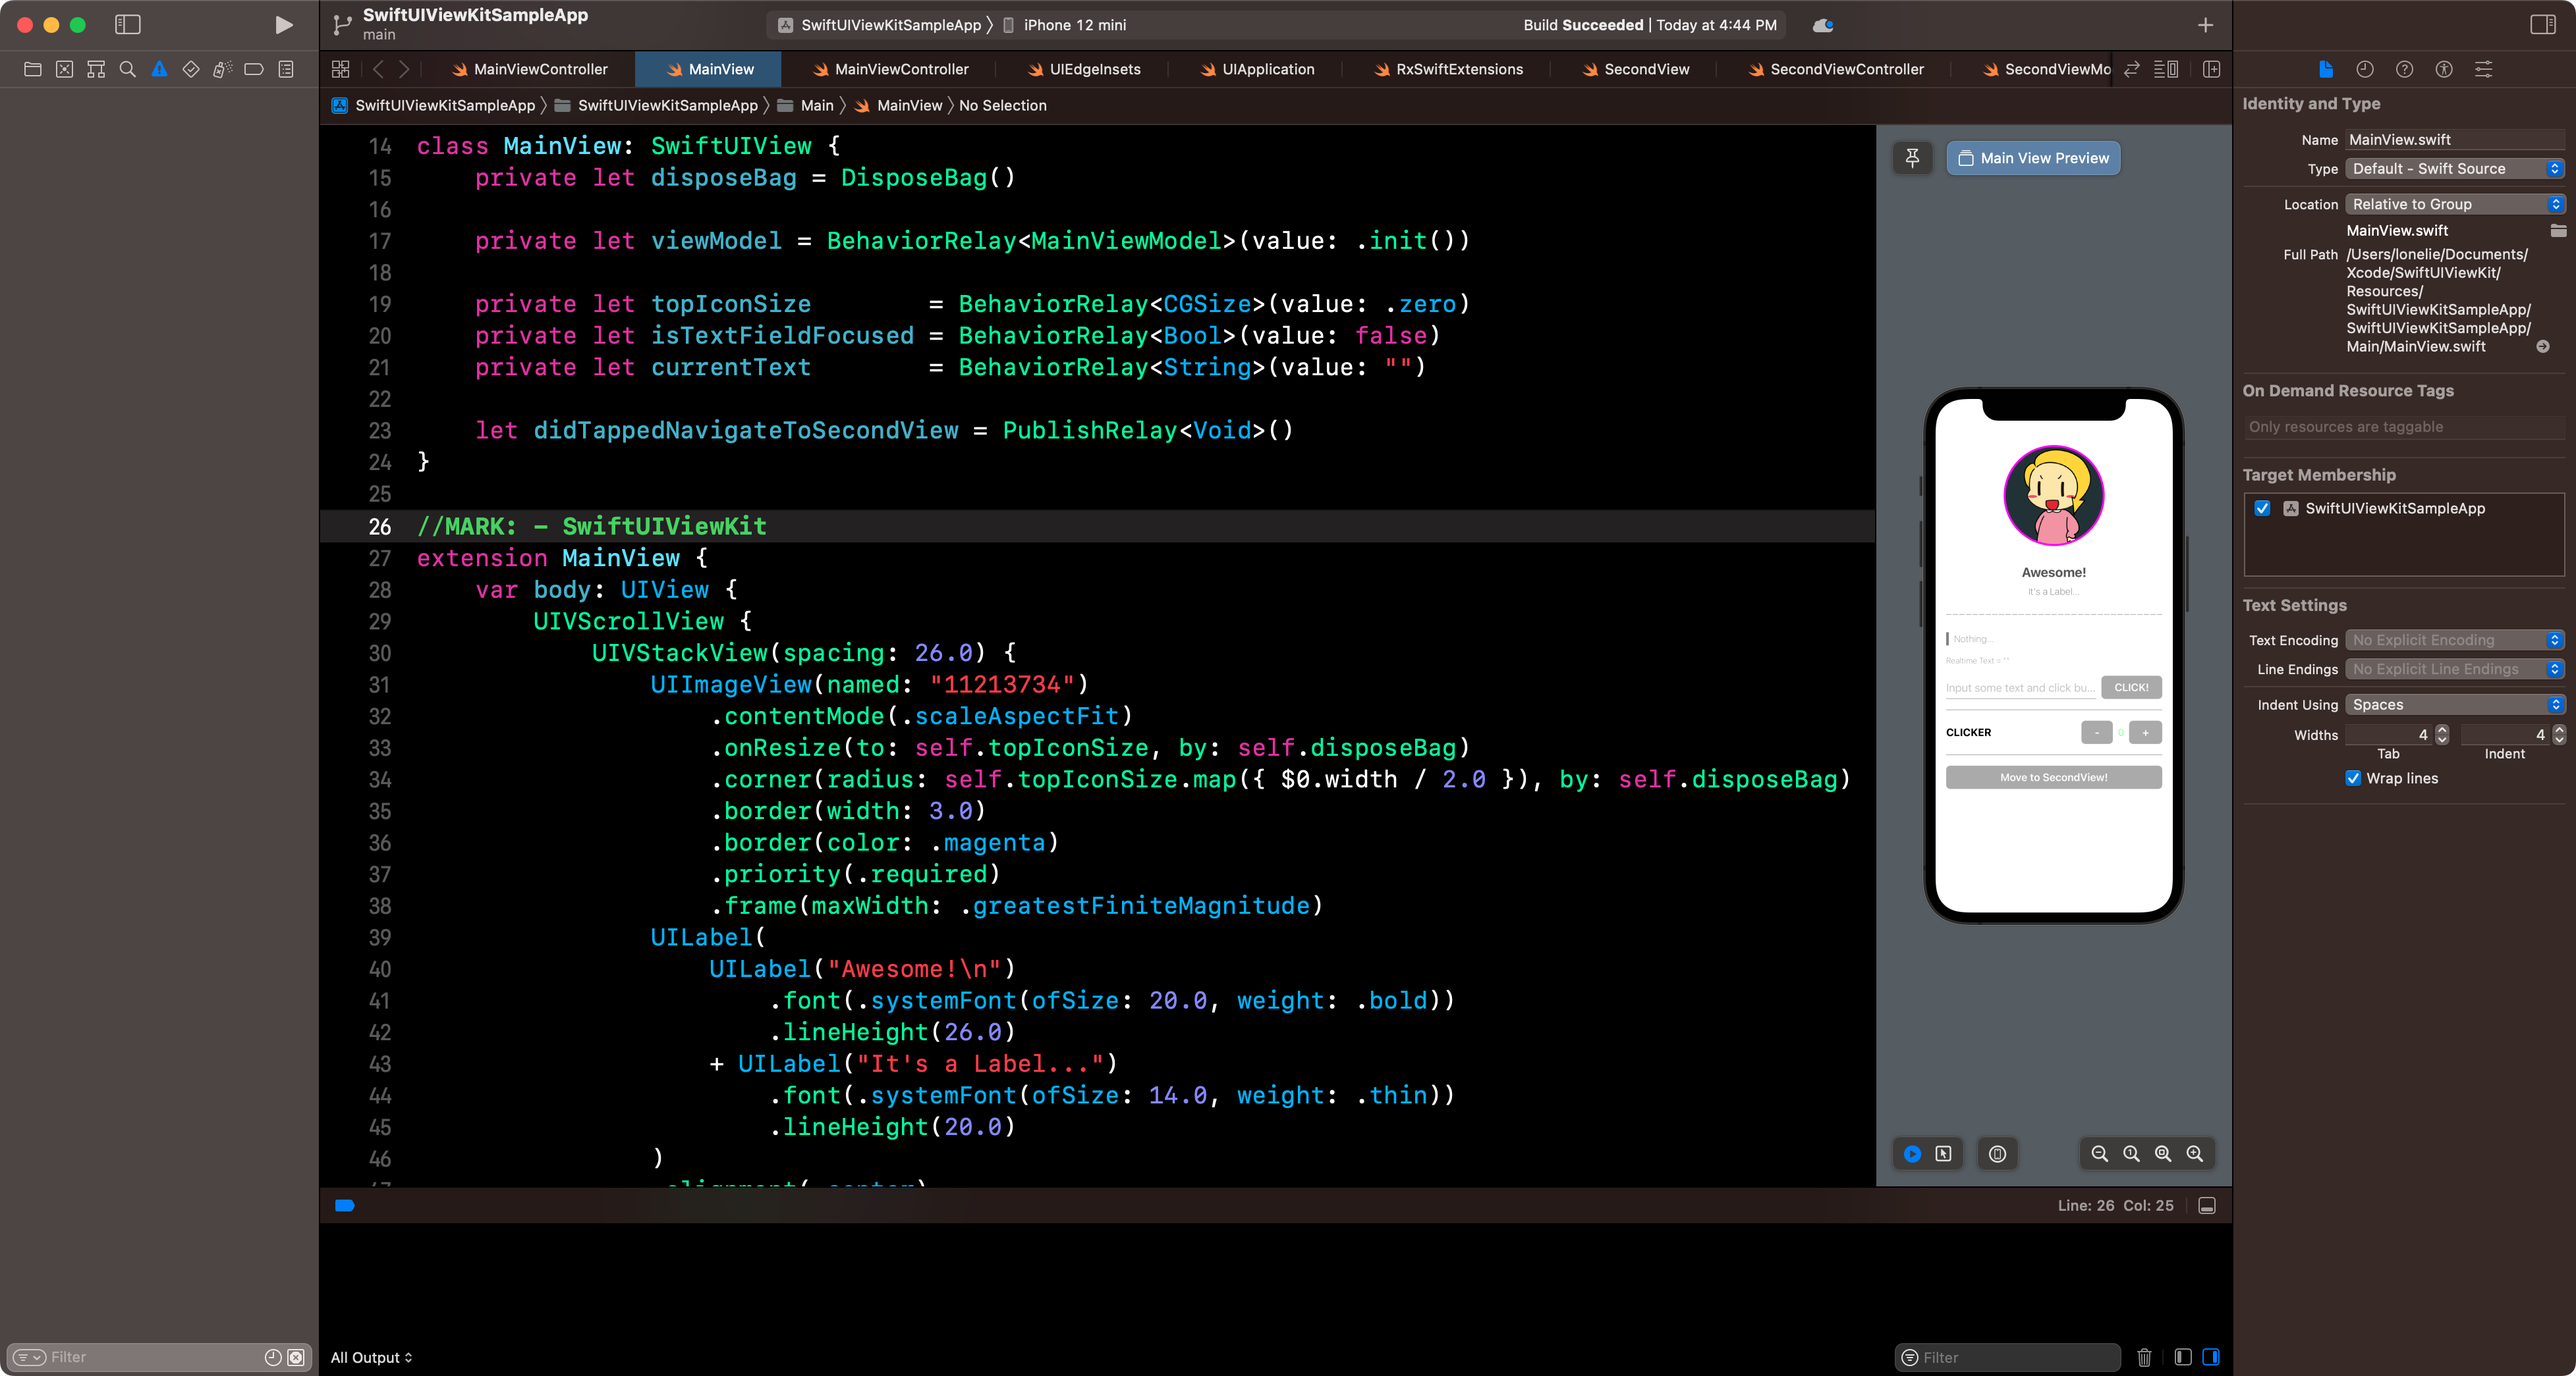
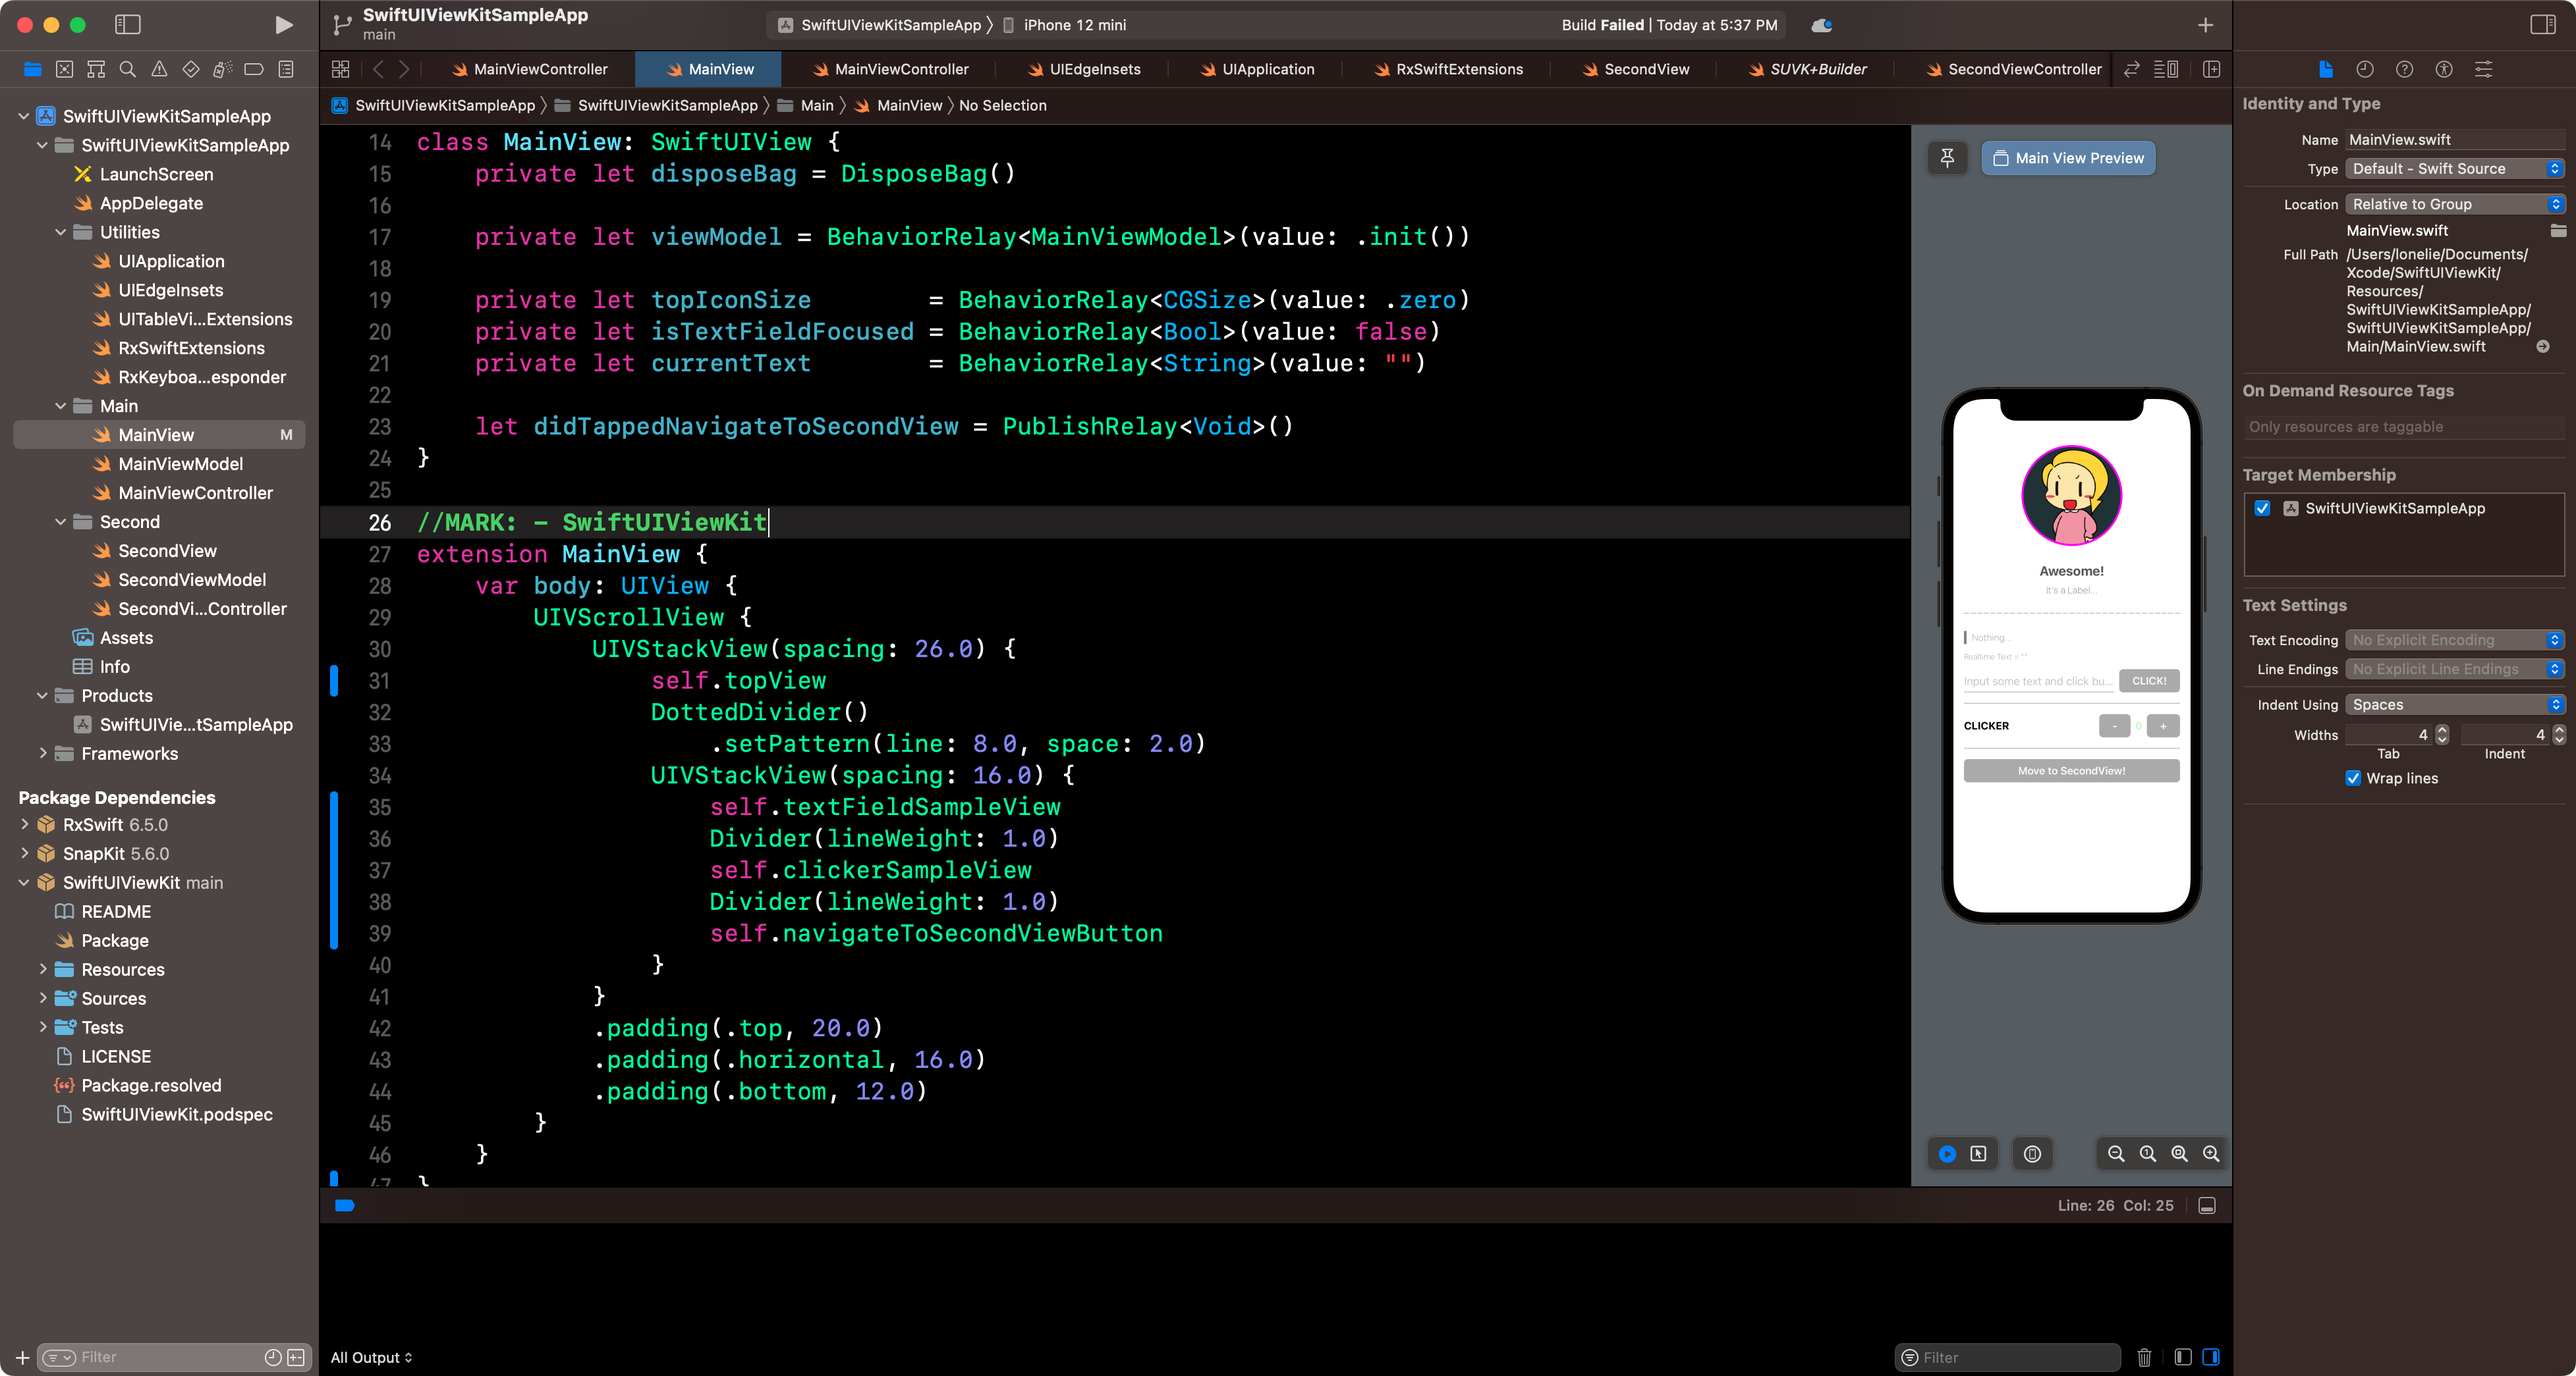
Update SampleApp and preview.

diff --git a/Resources/SwiftUIViewKitSampleApp/SwiftUIViewKitSampleApp/Main/MainView.swift b/Resources/SwiftUIViewKitSampleApp/SwiftUIViewKitSampleApp/Main/MainView.swift
@@ -28,121 +28,146 @@ extension MainView {
     var body: UIView {
         UIVScrollView {
             UIVStackView(spacing: 26.0) {
-                UIImageView(named: "11213734")
-                    .contentMode(.scaleAspectFit)
-                    .onResize(to: self.topIconSize, by: self.disposeBag)
-                    .corner(radius: self.topIconSize.map({ $0.width / 2.0 }), by: self.disposeBag)
-                    .border(width: 3.0)
-                    .border(color: .magenta)
-                    .priority(.required)
-                    .frame(maxWidth: .greatestFiniteMagnitude)
-                UILabel(
-                    UILabel("Awesome!\n")
-                        .font(.systemFont(ofSize: 20.0, weight: .bold))
-                        .lineHeight(26.0)
-                    + UILabel("It's a Label...")
-                        .font(.systemFont(ofSize: 14.0, weight: .thin))
-                        .lineHeight(20.0)
-                )
-                .alignment(.center)
-                .lineLimit(0)
-                .color(.darkGray)
+                self.topView
                 DottedDivider()
                     .setPattern(line: 8.0, space: 2.0)
                 UIVStackView(spacing: 16.0) {
-                    UIHStackView(spacing: 8.0) {
-                        UIView()
-                            .background(.gray)
-                            .frame(width: 4.0)
-                        UILabel(
-                            self.viewModel
-                                .map { $0.userText }
-                                .map { $0.isEmpty ? "Nothing..." : $0 },
-                            by: self.disposeBag
-                        )
-                        .font(.systemFont(ofSize: 14.0, weight: .thin))
-                        .lineLimit(0)
-                        .lineHeight(20.0)
-                        .color(self.viewModel.map({ $0.userText.isEmpty ? .gray : .magenta }), by: disposeBag)
-                    }
-                    UILabel(self.currentText.map({ String(format: "Realtime Text = \"%@\"", $0) }), by: self.disposeBag)
-                        .font(.systemFont(ofSize: 12.0, weight: .thin))
-                        .lineLimit(0)
-                        .lineHeight(14.0)
-                        .lineBreak(.byCharWrapping)
-                        .color(.gray)
-                    UIHStackView(spacing: 8.0) {
-                        UITextField()
-                            .bind(to: self.currentText, by: self.disposeBag)
-                            .configuration {(tf: UITextField) in
-                                tf.placeholder = "Input some text and click button!"
-                            }
-                            .background(
-                                Divider()
-                                    .color(self.isTextFieldFocused.map({ $0 ? .cyan : .lightGray }),
-                                           by: self.disposeBag)
-                                    .frame(maxHeight: .greatestFiniteMagnitude,
-                                           verticalAlignment: .bottom)
-                            )
-                            .onTapGesture(by: self.disposeBag) {gesture in
-                                gesture.view?.becomeFirstResponder()
-                            }
-                            .addTarget(
-                                by: self.disposeBag,
-                                for: .editingDidBegin,
-                                action: {[unowned self] in
-                                    self.isTextFieldFocused.accept(true)
-                                }
-                            )
-                            .addTarget(
-                                by: self.disposeBag,
-                                for: [.editingDidEnd, .editingDidEndOnExit],
-                                action: {[unowned self] in
-                                    self.isTextFieldFocused.accept(false)
-                                }
-                            )
-                            .priority(.defaultHigh)
-                        self.button(text: "CLICK!")
-                            .onTapGesture(by: self.disposeBag) {[unowned self] in
-                                self.endEditing(false)
-                                self.viewModel.unwrappedValue.userText = self.currentText.value
-                            }
-                    }
+                    self.textFieldSampleView
                     Divider(lineWeight: 1.0)
-                    UIHStackView(alignment: .center, spacing: 8.0) {
-                        UILabel("CLICKER")
-                            .font(.systemFont(ofSize: 16.0, weight: .bold))
-                        UIHStackView(alignment: .center, spacing: 8.0) {
-                            self.button(text: "-")
-                                .onTapGesture(by: self.disposeBag) {[unowned self] in
-                                    self.viewModel.unwrappedValue.clickedCount -= 1
-                                }
-                            UILabel(self.viewModel
-                                        .map { String(format: "%lld", $0.clickedCount) }
-                                        .distinctUntilChanged(),
-                                    by: self.disposeBag)
-                                .font(.systemFont(ofSize: 14.0, weight: .thin))
-                                .alignment(.center)
-                                .color(self.viewModel
-                                           .map { $0.clickedCount < 0 ? .red : .green }
-                                           .distinctUntilChanged(),
-                                       by: self.disposeBag)
-                            self.button(text: "+")
-                                .onTapGesture(by: self.disposeBag) {[unowned self] in
-                                    self.viewModel.unwrappedValue.clickedCount += 1
-                                }
-                        }
-                        .priority(.required)
-                    }
+                    self.clickerSampleView
                     Divider(lineWeight: 1.0)
-                    self.button(text: "Move to SecondView!")
-                        .onTapGesture(by: self.disposeBag, publish: self.didTappedNavigateToSecondView)
+                    self.navigateToSecondViewButton
                 }
             }
             .padding(.top, 20.0)
             .padding(.horizontal, 16.0)
             .padding(.bottom, 12.0)
         }
+    }
+}
+
+//MARK: - Subviews
+extension MainView {
+    private var topView: UIView {
+        UIVStackView(spacing: 24.0) {
+            UIImageView(named: "11213734")
+                .contentMode(.scaleAspectFit)
+                .onResize(to: self.topIconSize, by: self.disposeBag)
+                .corner(radius: self.topIconSize.map({ $0.width / 2.0 }), by: self.disposeBag)
+                .border(width: 3.0)
+                .border(color: .magenta)
+                .priority(.required)
+                .frame(maxWidth: .greatestFiniteMagnitude)
+            UILabel(
+                UILabel("Awesome!\n")
+                    .font(.systemFont(ofSize: 20.0, weight: .bold))
+                    .lineHeight(26.0)
+                + UILabel("It's a Label...")
+                    .font(.systemFont(ofSize: 14.0, weight: .thin))
+                    .lineHeight(20.0)
+            )
+            .alignment(.center)
+            .lineLimit(0)
+            .color(.darkGray)
+        }
+    }
+    
+    private var textFieldSampleView: UIView {
+        UIVStackView(spacing: 12.0) {
+            UIHStackView(spacing: 8.0) {
+                UIView()
+                    .background(.gray)
+                    .frame(width: 4.0)
+                UILabel(
+                    self.viewModel
+                        .map { $0.userText }
+                        .map { $0.isEmpty ? "Nothing..." : $0 },
+                    by: self.disposeBag
+                )
+                .font(.systemFont(ofSize: 14.0, weight: .thin))
+                .lineLimit(0)
+                .lineHeight(20.0)
+                .color(self.viewModel.map({ $0.userText.isEmpty ? .gray : .magenta }), by: disposeBag)
+            }
+            UILabel(self.currentText.map({ String(format: "Realtime Text = \"%@\"", $0) }), by: self.disposeBag)
+                .font(.systemFont(ofSize: 12.0, weight: .thin))
+                .lineLimit(0)
+                .lineHeight(14.0)
+                .lineBreak(.byCharWrapping)
+                .color(.gray)
+            UIHStackView(spacing: 8.0) {
+                UITextField()
+                    .bind(to: self.currentText, by: self.disposeBag)
+                    .configuration {(tf: UITextField) in
+                        tf.placeholder = "Input some text and click button!"
+                    }
+                    .background(
+                        Divider()
+                            .color(self.isTextFieldFocused.map({ $0 ? .cyan : .lightGray }),
+                                   by: self.disposeBag)
+                            .frame(maxHeight: .greatestFiniteMagnitude,
+                                   verticalAlignment: .bottom)
+                    )
+                    .onTapGesture(by: self.disposeBag) {gesture in
+                        gesture.view?.becomeFirstResponder()
+                    }
+                    .addTarget(
+                        by: self.disposeBag,
+                        for: .editingDidBegin,
+                        action: {[unowned self] in
+                            self.isTextFieldFocused.accept(true)
+                        }
+                    )
+                    .addTarget(
+                        by: self.disposeBag,
+                        for: [.editingDidEnd, .editingDidEndOnExit],
+                        action: {[unowned self] in
+                            self.isTextFieldFocused.accept(false)
+                        }
+                    )
+                    .priority(.defaultHigh)
+                self.button(text: "CLICK!")
+                    .onTapGesture(by: self.disposeBag) {[unowned self] in
+                        self.endEditing(false)
+                        self.viewModel.unwrappedValue.userText = self.currentText.value
+                    }
+            }
+        }
+    }
+    
+    private var clickerSampleView: UIView {
+        UIVStackView(spacing: 12.0) {
+            UIHStackView(alignment: .center, spacing: 8.0) {
+                UILabel("CLICKER")
+                    .font(.systemFont(ofSize: 16.0, weight: .bold))
+                UIHStackView(alignment: .center, spacing: 8.0) {
+                    self.button(text: "-")
+                        .onTapGesture(by: self.disposeBag) {[unowned self] in
+                            self.viewModel.unwrappedValue.clickedCount -= 1
+                        }
+                    UILabel(self.viewModel
+                                .map { String(format: "%lld", $0.clickedCount) }
+                                .distinctUntilChanged(),
+                            by: self.disposeBag)
+                        .font(.systemFont(ofSize: 14.0, weight: .thin))
+                        .alignment(.center)
+                        .color(self.viewModel
+                                   .map { $0.clickedCount < 0 ? .red : .green }
+                                   .distinctUntilChanged(),
+                               by: self.disposeBag)
+                    self.button(text: "+")
+                        .onTapGesture(by: self.disposeBag) {[unowned self] in
+                            self.viewModel.unwrappedValue.clickedCount += 1
+                        }
+                }
+                .priority(.required)
+            }
+        }
+    }
+    
+    private var navigateToSecondViewButton: UIView {
+        self.button(text: "Move to SecondView!")
+            .onTapGesture(by: self.disposeBag, publish: self.didTappedNavigateToSecondView)
     }
     
     private func button(text: String) -> UIView {
